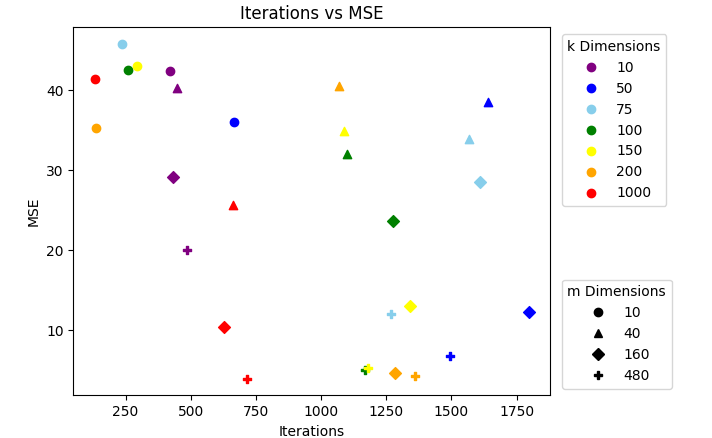
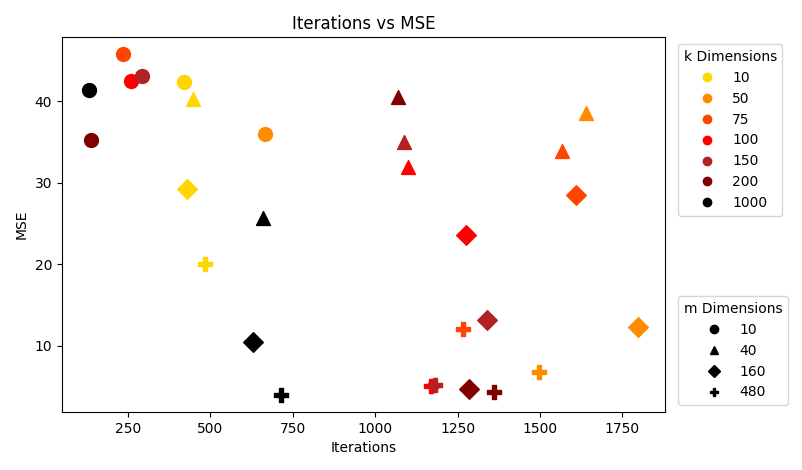
Final plots

diff --git a/visualizing model.py b/visualizing model.py
@@ -45,6 +45,7 @@ import os
 # print(epochs)
 # m_dim = list(data["1000"]["16"].keys())
 # alphas = list(data["1000"]["16"]["480"].keys())
+# print(alphas)
 # MSE = np.zeros((len(alphas), len(m_dim), len(z_dim)))
 # MSEvar = np.zeros((len(alphas), len(m_dim), len(z_dim)))
 # for z in z_dim:
@@ -95,41 +96,77 @@ import os
 
 
 # MSE vs Iterations Scatter plot for all Z and M dimensions
-loss_data = json.load(open('compression_MSE_onlyepoch16.json'))
-iter_data = json.load(open('iter_info.json'))
-z_dim = list(loss_data.keys())
-print(z_dim)
-epochs = list(loss_data["1000"].keys())
+# loss_data = json.load(open('compression_MSE_onlyepoch16.json'))
+# iter_data = json.load(open('iter_info.json'))
+# z_dim = list(loss_data.keys())
+# print(z_dim)
+# epochs = list(loss_data["1000"].keys())
+# print(epochs)
+# m_dim = list(loss_data["1000"]["16"].keys())
+# print(m_dim)
+# alphas = list(loss_data["1000"]["16"]["480"].keys())
+# print(alphas)   
+# epoch='16'
+# alpha='0.04'
+# iter_last={}
+# MSE = pd.DataFrame(columns = ['Z', 'M', 'Last_iter', 'MSE'])
+# for z in z_dim:
+#     iter_last[z]={}
+#     for m in m_dim:
+#         iters= [iter_data[z][m][i]['last_iter'] for i in range(5)]
+#         iter_last[z][m]=np.mean(iters)
+#         df= {'Z': z, 'M': m, 'Last_iter': iter_last[z][m], 'MSE': np.mean(loss_data[z][epoch][m][alpha])} 
+#         MSE = pd.concat([MSE, pd.DataFrame([df])], ignore_index=True)
+
+
+# #colour = {'10': 'violet', '50': 'indigo', '75': 'blue', '100': 'green', '150': 'yellow', '200': 'orange', '1000': 'red'}
+# colour = {'10': 'gold', '50': 'darkorange', '75': 'orangered', '100': 'red', '150': 'firebrick', '200': 'maroon', '1000': 'black'}
+# marker={'10': 'o', '40': '^', '160': 'D', '480': 'P'}
+# fig, ax = plt.subplots(1, 1, figsize=(6,6))
+# for i in range(len(MSE)):
+#     ax.scatter(MSE['Last_iter'][i], MSE["MSE"][i], c=colour[MSE["Z"][i]], marker=marker[MSE["M"][i]], s=100)
+
+# markers1 = [plt.Line2D([0,0],[0,0],color=color, marker='o', linestyle='') for color in colour.values()]
+# firstlegend= ax.legend(markers1, colour.keys(), numpoints=1, title="k", loc='upper left',bbox_to_anchor=(1.01, 1))
+# ax.add_artist(firstlegend)
+# markers2 = [plt.Line2D([0,0],[0,0],color='black', marker=marker, linestyle='') for marker in marker.values()]
+# ax.legend(markers2, marker.keys(), numpoints=1, title="m", loc='lower left', bbox_to_anchor=(1.01, 0))
+# plt.xlabel("Iterations till convergence", fontsize=12)
+# plt.ylabel("MSE", fontsize=12)
+# plt.title("Iterations vs MSE", fontsize=12)
+# plt.show()
+
+
+#compression_MSE_epoch_16_Case1.json
+data = json.load(open('compression_MSE_z_150_epoch_16_Case3.json'))
+save_path = f'MSE_heatmap_z_150_epoch_16_Case3/'                   #Change the path to save the heatmaps
+#os.mkdir(save_path)
+epoch= '15'
+z_dim = list(data.keys())
+epochs = list(data["150"].keys())
 print(epochs)
-m_dim = list(loss_data["1000"]["16"].keys())
-print(m_dim)
-alphas = list(loss_data["1000"]["16"]["480"].keys())
-print(alphas)   
-epoch='16'
-alpha='0.04'
-iter_last={}
-MSE = pd.DataFrame(columns = ['Z', 'M', 'Last_iter', 'MSE'])
-for z in z_dim:
-    iter_last[z]={}
-    for m in m_dim:
-        iters= [iter_data[z][m][i]['last_iter'] for i in range(5)]
-        iter_last[z][m]=np.mean(iters)
-        df= {'Z': z, 'M': m, 'Last_iter': iter_last[z][m], 'MSE': np.mean(loss_data[z][epoch][m][alpha])} 
-        MSE = pd.concat([MSE, pd.DataFrame([df])], ignore_index=True)
+m_dim = list(data["150"][epoch].keys())
+alphas = list(data["150"][epoch]["480"].keys())
+print(alphas)
+MSE = np.zeros(( len(m_dim), len(alphas)))
+MSEvar = np.zeros(( len(m_dim), len(alphas)))
 
+z='150'
+for m in m_dim:
+    for alpha in alphas:
+        err=np.mean(data[z][epoch][m][alpha])
+        var=np.std(data[z][epoch][m][alpha])
+        MSE[int(m_dim.index(m)), int(alphas.index(alpha))]=err
+        MSEvar[int(m_dim.index(m)), int(alphas.index(alpha))]=var
+print(MSE.shape)
 
-colour= {'10': 'purple', '50': 'blue', '75': 'skyblue', '100': 'green', '150': 'yellow', '200': 'orange', '1000': 'red'}
-marker={'10': 'o', '40': '^', '160': 'D', '480': 'P'}
-fig, ax = plt.subplots(1, 1, figsize=(6,6))
-for i in range(len(MSE)):
-    ax.scatter(MSE['Last_iter'][i], MSE["MSE"][i], c=colour[MSE["Z"][i]], marker=marker[MSE["M"][i]])
-
-markers1 = [plt.Line2D([0,0],[0,0],color=color, marker='o', linestyle='') for color in colour.values()]
-firstlegend= ax.legend(markers1, colour.keys(), numpoints=1, title="k Dimensions", loc='upper left',bbox_to_anchor=(1.01, 1))
-ax.add_artist(firstlegend)
-markers2 = [plt.Line2D([0,0],[0,0],color='black', marker=marker, linestyle='') for marker in marker.values()]
-ax.legend(markers2, marker.keys(), numpoints=1, title="m Dimensions", loc='lower left', bbox_to_anchor=(1.01, 0))
-plt.xlabel("Iterations")
-plt.ylabel("MSE")
-plt.title("Iterations vs MSE")
+sns.heatmap(MSE, annot=True, annot_kws={'va':'bottom', 'size': 'x-large'}, fmt=".2f", cmap='YlOrRd', xticklabels=alphas, yticklabels=m_dim, cbar=False)
+sns.heatmap(MSE, annot=MSEvar, annot_kws={'va':'top', 'size': 'large'}, fmt=".2f", cmap='YlOrRd', xticklabels=alphas, yticklabels=m_dim, cbar=False)
+plt.xticks(fontsize=14)  
+plt.yticks(fontsize=14) 
+plt.xlabel("alpha values", fontsize=14)
+plt.ylabel("m values", fontsize=14)
+plt.title("MSE Heatmap Case 3 for k= "+z, fontsize=14)
 plt.show()
+#plt.savefig(save_path+f"MSE_heatmap_alpha_{alphas[i]}.png")
+
